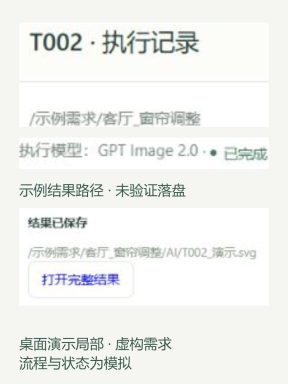
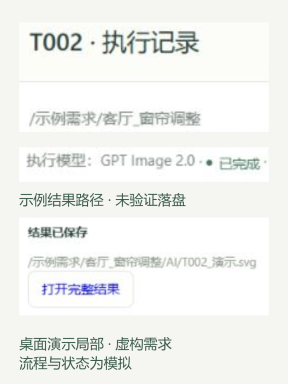
docs: fix record mobile crop margins for detail-v2 r1

diff --git a/docs/portfolio-assets/detail-v2/README.md b/docs/portfolio-assets/detail-v2/README.md
@@ -37,3 +37,13 @@
 - 产品界面现有文字中的“结果已保存”、日期与统计均属模拟，不证明实际产能、生成质量或真实归档。
 
 交付文件清单、中文 alt、用途、限制与拍摄代码 SHA 见 [manifest.json](manifest.json)。本次素材提交 SHA 由最终回执提供，不写入自身提交文件。
+
+## 定向补修 r1
+
+原任务：detail-v2-20261104-tupai；补修：detail-v2-20261104-tupai-r1。保留素材提交 94074c58d1c8beedd7b2840d3c6afe5a48b505b9 的历史。只调整 tupai-record-mobile.webp 及其288/358校样，仍为900×1200，无需增加自然高度。
+
+使用同一张未修改的 source/record.png：任务身份裁区为 x200/y205/w196/h86（下缘291，避开下一行模型），模型/完成裁区为 x202/y289/w202/h28（包含首字与完成状态两侧真实留白，舍去后续比例字段）。各局部等比排版，模型条下移至y460，路径说明基线y640、结果局部y680，保持清楚的独立留白。没有修改文字、状态或原始截图。
+
+已逐一目视900px成品和288/358px校样：任务路径下缘、执行模型首字、GPT Image 2.0 和已完成均完整。按原截图11px路径字及12px模型字估算，288px展示时分别约14.0px及14.8px；358px分别约17.4px及18.4px。可读性以实际校样为准，不靠提高分辨率代替放大内容。
+
+仅复现该图：运行 node source/build.mjs --only=tupai-record-mobile.webp；其他九张成品及其校样不重新导出。verification.json 记录与原素材提交逐字节核对的结果。模拟、预设SVG非模型效果及未验证真实落盘的边界不变。
